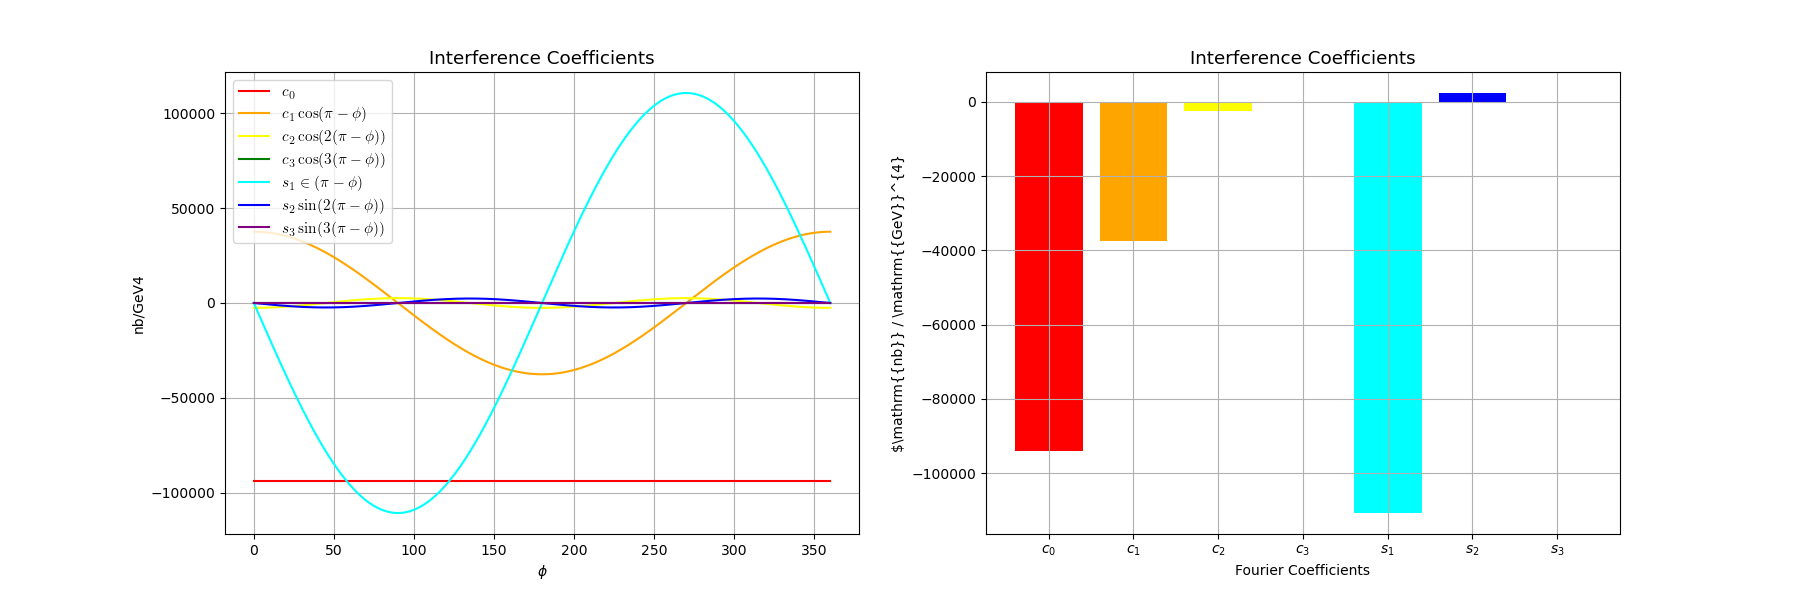
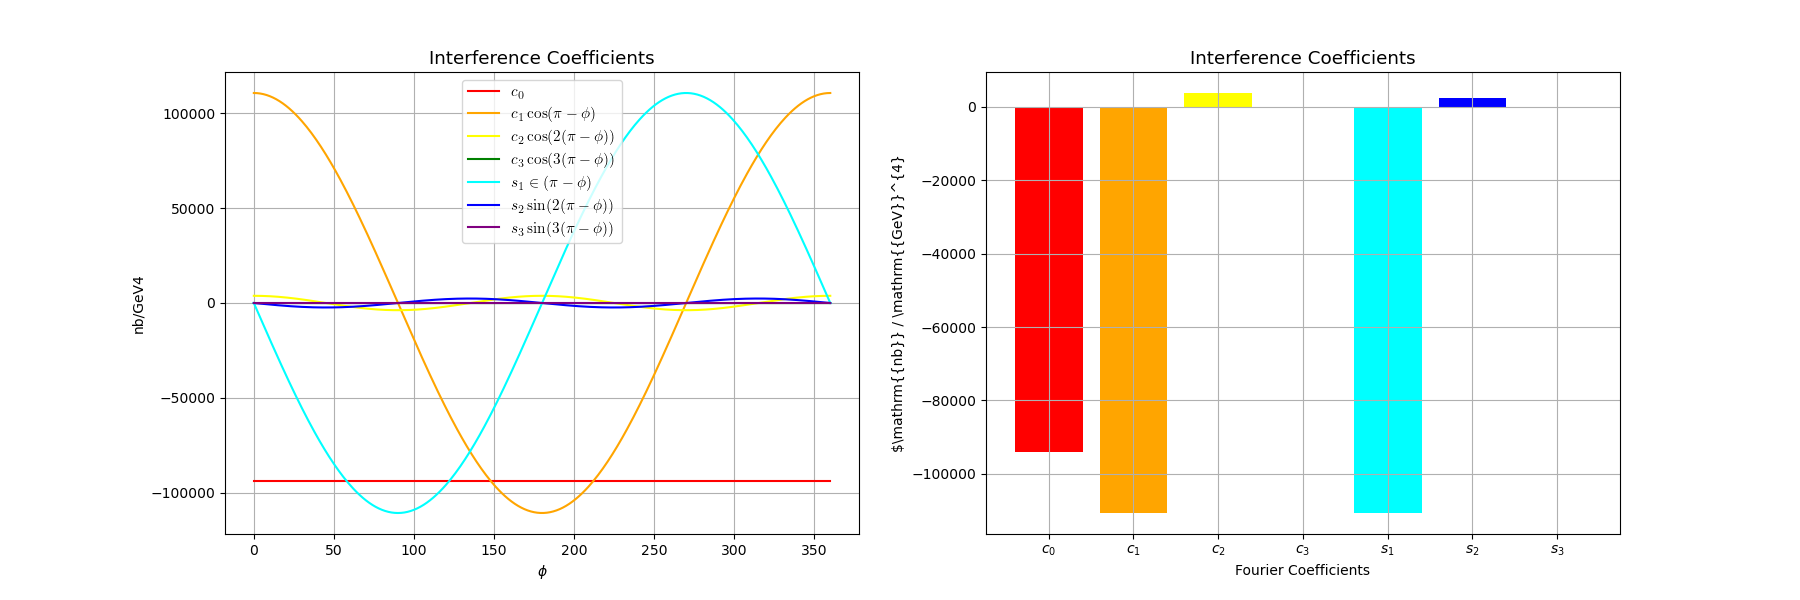
Forgot (-) in S{V}(n = 1)++. Stupid Decimal replacements.

diff --git a/coefficients/interference_coefficients/unpolarized/unpolarized_Spp1V.py b/coefficients/interference_coefficients/unpolarized/unpolarized_Spp1V.py
@@ -24,14 +24,14 @@ def calculate_s_1_plus_plus_unpolarized_V(
         bracket_term = root_one_plus_epsilon_squared - 1. + (1. + root_one_plus_epsilon_squared - 2. * x_Bjorken) * t_over_Q_squared
 
         # (4): Calculate the prefactor:
-        prefactor = 8. * lepton_helicity * shorthand_k * lepton_energy_fraction_y * (2. - lepton_energy_fraction_y) * x_Bjorken * t_over_Q_squared / root_one_plus_epsilon_squared**4
+        prefactor = -8. * lepton_helicity * shorthand_k * lepton_energy_fraction_y * (2. - lepton_energy_fraction_y) * x_Bjorken * t_over_Q_squared / root_one_plus_epsilon_squared**4
 
         # (5): Calculate the coefficient
         s_1_plus_plus_unp_V = prefactor * bracket_term
         
         # (5.1): If verbose, log the output:
         if verbose:
-            print(f"> Calculated s_1_plus_plus_unp_V to be: {s_1_plus_plus_unp_V}")
+            print(f"> Calculated s_1_plus_plus_unp_V to be:\n{s_1_plus_plus_unp_V}")
 
         # (6): Return the coefficient:
         return s_1_plus_plus_unp_V
